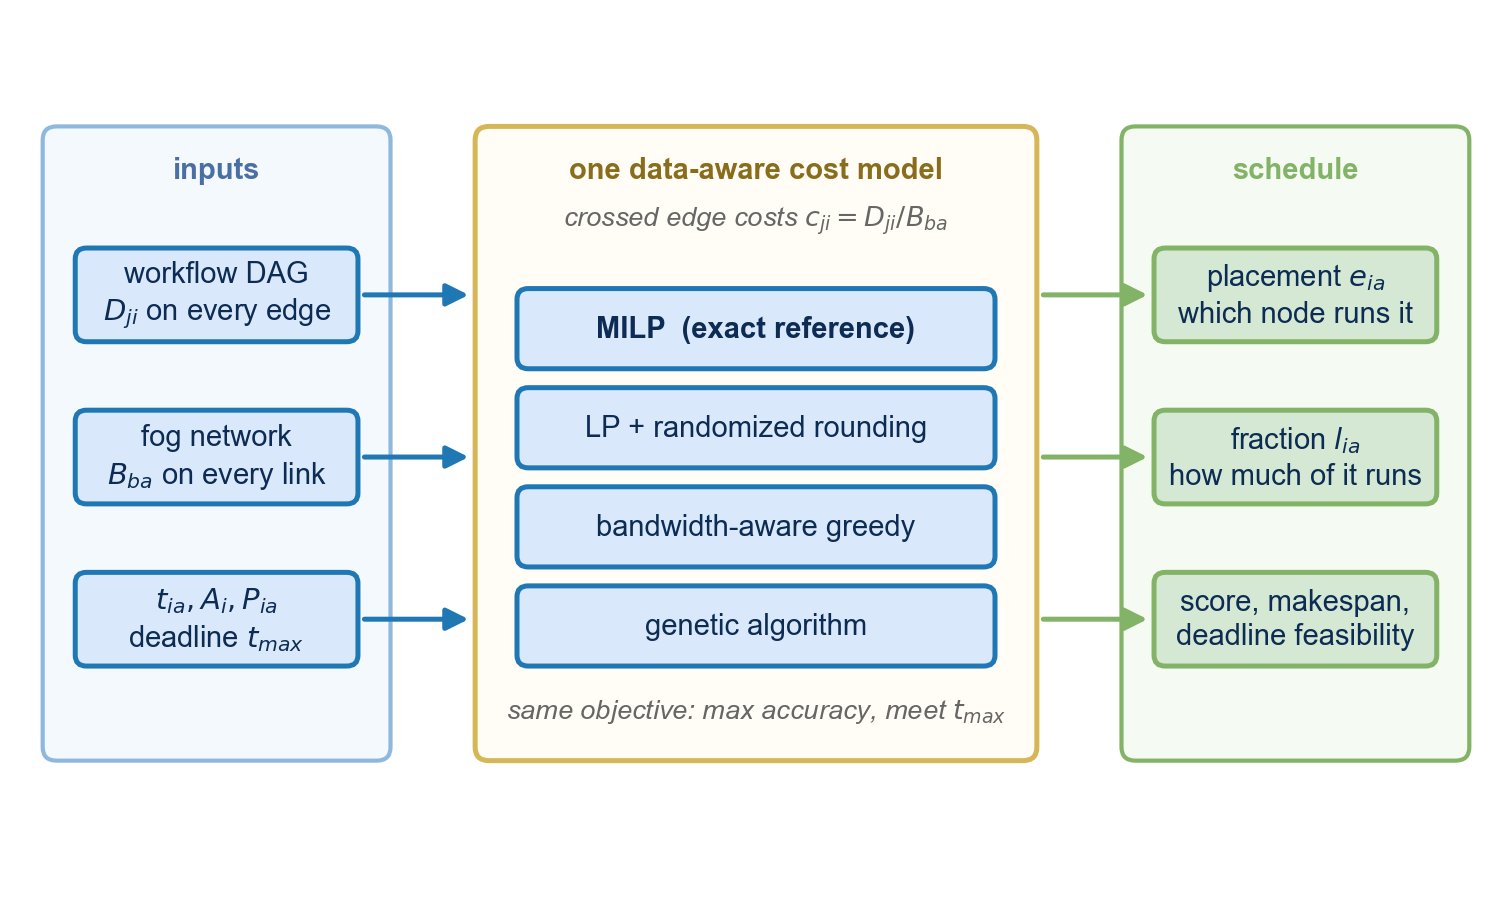
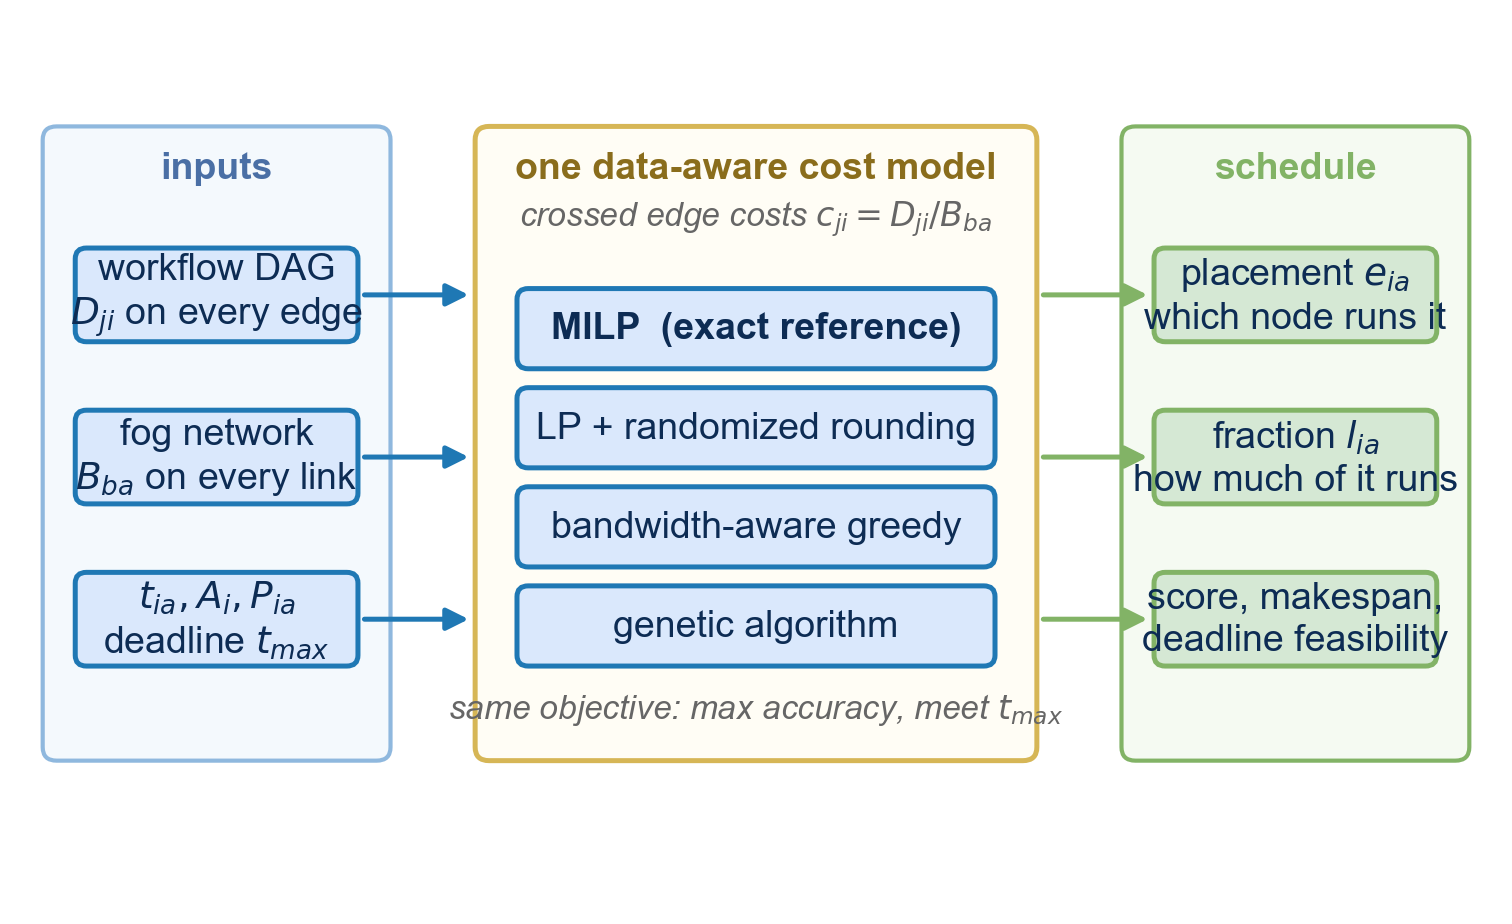
Enlarge diagram fonts and boxes for column-width readability
Bumps text to 9pt/8pt and resizes boxes in the three conceptual
figures so labels stay legible when rendered at single-column width;
fixes box-text overflow in the architecture and mapping diagrams.

diff --git a/code/make_figures.py b/code/make_figures.py
@@ -25,8 +25,8 @@ YELLOW_EDGE = "#d6b656"
 RED = "#c0392b"
 GREY = "#666666"
 
-FS = 7.0         # box text
-FS_SM = 6.5      # edge / side labels
+FS = 9.0         # box text
+FS_SM = 8.0      # edge / side labels
 
 
 def box(ax, x, y, w, h, text, fc=LT_BLUE, ec=BLUE, fs=FS, dashed=False,
@@ -61,12 +61,12 @@ def figure_architecture():
     ax.set_xlim(0, 16); ax.set_ylim(0, 11); ax.axis("off")
 
     # unreachable cloud (crossed out, dashed)
-    box(ax, 6.3, 9.9, 3.4, 0.85, "Cloud  (unreachable)",
+    box(ax, 5.7, 9.85, 4.6, 0.95, "Cloud  (unreachable)",
         fc="#f5f5f5", ec="#aaaaaa", fs=FS, dashed=True)
     cx = (8.0, 10.32)
-    ax.plot([cx[0] - 0.14, cx[0] + 0.14], [cx[1] - 0.12, cx[1] + 0.12],
+    ax.plot([cx[0] - 0.18, cx[0] + 0.18], [cx[1] - 0.15, cx[1] + 0.15],
             color=RED, lw=2.0)
-    ax.plot([cx[0] + 0.14, cx[0] - 0.14], [cx[1] - 0.12, cx[1] + 0.12],
+    ax.plot([cx[0] + 0.18, cx[0] - 0.18], [cx[1] - 0.15, cx[1] + 0.15],
             color=RED, lw=2.0)
 
     # federation boundary
@@ -80,7 +80,7 @@ def figure_architecture():
             fontweight="bold")
 
     # scheduler
-    sch = box(ax, 5.7, 7.15, 4.6, 0.95,
+    sch = box(ax, 5.3, 7.05, 5.4, 1.25,
               "Data-aware scheduler\nplaces tasks across the federation",
               fc=YELLOW, ec=YELLOW_EDGE, fs=FS, bold=True)
 
@@ -100,16 +100,16 @@ def figure_architecture():
             color="#4a6fa5", fontweight="bold")
 
     fgs = {}
-    fgs[0] = box(ax, 1.4, 4.55, 2.4, 0.9, "Fog 1\n(base station)", fs=FS)
-    fgs[1] = box(ax, 4.6, 4.55, 2.4, 0.9, "Fog 2\n(shelter gateway)", fs=FS)
-    fgs[2] = box(ax, 9.0, 4.55, 2.4, 0.9, "Fog 3\n(hospital edge)", fs=FS)
-    fgs[3] = box(ax, 12.2, 4.55, 2.4, 0.9, "Fog 4\n(mobile unit)", fs=FS)
+    fgs[0] = box(ax, 1.2, 4.45, 2.9, 1.15, "Fog 1\n(base station)", fs=FS)
+    fgs[1] = box(ax, 4.3, 4.45, 2.9, 1.15, "Fog 2\n(shelter gateway)", fs=FS)
+    fgs[2] = box(ax, 8.8, 4.45, 2.9, 1.15, "Fog 3\n(hospital edge)", fs=FS)
+    fgs[3] = box(ax, 12.0, 4.45, 2.9, 1.15, "Fog 4\n(mobile unit)", fs=FS)
 
     # intra-site links (solid grey) and one cross-site federation link (dashed)
     for a, b in [(0, 1), (2, 3)]:
-        arrow(ax, (fgs[a][0] + 1.2, fgs[a][1]), (fgs[b][0] - 1.2, fgs[b][1]),
+        arrow(ax, (fgs[a][0] + 1.45, fgs[a][1]), (fgs[b][0] - 1.45, fgs[b][1]),
               color=GREY, lw=0.9)
-    arrow(ax, (fgs[1][0] + 1.2, fgs[1][1]), (fgs[2][0] - 1.2, fgs[2][1]),
+    arrow(ax, (fgs[1][0] + 1.45, fgs[1][1]), (fgs[2][0] - 1.45, fgs[2][1]),
           dashed=True, color=GREEN_EDGE, lw=1.4)
     ax.text(8.0, 5.35, "inter-site link", fontsize=FS_SM, color=GREEN_EDGE,
             fontstyle="italic", ha="center")
@@ -122,14 +122,14 @@ def figure_architecture():
             fontstyle="italic", ha="center")
 
     # field sensors feeding site A
-    s1 = box(ax, 0.9, 1.15, 4.0, 0.95,
+    s1 = box(ax, 0.9, 1.05, 5.4, 1.2,
              "field sensors\nriver gauges, drones, cameras",
              fc=GREEN, ec=GREEN_EDGE, fs=FS)
     arrow(ax, (s1[0] + 0.5, s1[1] + 0.5), (fgs[0][0] - 0.4, fgs[0][1] - 0.48),
           color=GREEN_EDGE, label="raw data", label_dx=-0.9)
 
     # results flow to the operations centre
-    oc = box(ax, 10.6, 1.15, 5.0, 0.95,
+    oc = box(ax, 10.2, 1.05, 5.2, 1.0,
              "emergency operations centre",
              fc=GREEN, ec=GREEN_EDGE, fs=FS)
     arrow(ax, (fgs[3][0], fgs[3][1] - 0.48), (oc[0] + 0.6, oc[1] + 0.5),
@@ -166,12 +166,12 @@ def figure_dag():
             fontsize=FS_SM, color=GREY, fontstyle="italic")
 
     T = {}
-    T[1] = box(ax, 2.15, 7.65, 3.0, 0.8, "T1  ingest sensor data", fs=FS)
-    T[2] = box(ax, 0.85, 5.95, 3.0, 0.8, "T2  clean & filter", fs=FS)
-    T[3] = box(ax, 3.55, 5.95, 3.0, 0.8, "T3  fuse imagery", fs=FS)
-    T[4] = box(ax, 0.85, 4.25, 3.0, 0.8, "T4  forecast flood", fs=FS)
-    T[5] = box(ax, 3.55, 4.25, 3.0, 0.8, "T5  assess damage", fs=FS)
-    T[6] = box(ax, 2.15, 2.50, 3.0, 0.8, "T6  plan response", fs=FS,
+    T[1] = box(ax, 2.15, 7.65, 2.8, 0.8, "T1  ingest", fs=FS)
+    T[2] = box(ax, 0.75, 5.95, 2.8, 0.8, "T2  clean", fs=FS)
+    T[3] = box(ax, 3.75, 5.95, 2.8, 0.8, "T3  fuse", fs=FS)
+    T[4] = box(ax, 0.75, 4.25, 2.8, 0.8, "T4  forecast", fs=FS)
+    T[5] = box(ax, 3.75, 4.25, 2.8, 0.8, "T5  assess", fs=FS)
+    T[6] = box(ax, 2.15, 2.50, 2.8, 0.8, "T6  plan", fs=FS,
                fc=YELLOW, ec=YELLOW_EDGE, bold=True)
 
     edges = [(1, 2, "20"), (1, 3, "45"), (2, 4, "15"), (3, 4, "40"),
@@ -201,10 +201,10 @@ def figure_dag():
             fontsize=FS_SM, color=GREY, fontstyle="italic")
 
     F = {}
-    F[1] = box(ax, 9.65, 7.0, 2.1, 0.85, "$f_1$\ngateway", fs=FS)
-    F[2] = box(ax, 12.9, 7.0, 2.1, 0.85, "$f_2$\nshelter", fs=FS)
-    F[3] = box(ax, 9.65, 4.3, 2.1, 0.85, "$f_3$\nhospital", fs=FS)
-    F[4] = box(ax, 12.9, 4.3, 2.1, 0.85, "$f_4$\nmobile unit", fs=FS)
+    F[1] = box(ax, 9.55, 7.0, 2.2, 0.95, "$f_1$\ngateway", fs=FS)
+    F[2] = box(ax, 12.85, 7.0, 2.2, 0.95, "$f_2$\nshelter", fs=FS)
+    F[3] = box(ax, 9.55, 4.3, 2.2, 0.95, "$f_3$\nhospital", fs=FS)
+    F[4] = box(ax, 12.85, 4.3, 2.2, 0.95, "$f_4$\nmobile", fs=FS)
 
     links = [(1, 2, "90", 0.0), (1, 3, "10", 0.0), (2, 4, "60", 0.0),
              (3, 4, "45", 0.0), (2, 3, "30", -0.14)]
@@ -219,20 +219,20 @@ def figure_dag():
     # ---------- mapping arrows: task -> node ----------
     mapping = [(1, 1), (2, 1), (3, 1), (4, 3), (5, 2), (6, 4)]
     for t, f in mapping:
-        arrow(ax, (T[t][0] + 1.5, T[t][1] - 0.10),
-              (F[f][0] - 1.1, F[f][1] + 0.10),
+        arrow(ax, (T[t][0] + 1.4, T[t][1] - 0.10),
+              (F[f][0] - 1.15, F[f][1] + 0.10),
               dashed=True, color=BLUE, lw=0.9, rad=0.10)
     ax.text(8.0, 8.35, "placement $e_{ia}$", ha="center", fontsize=FS_SM,
             color=BLUE, fontstyle="italic")
 
     # ---------- the payoff callout ----------
-    call = FancyBboxPatch((3.4, 0.12), 9.2, 0.82,
+    call = FancyBboxPatch((2.9, 0.12), 10.2, 0.82,
                           boxstyle="round,pad=0.02,rounding_size=0.12",
                           linewidth=1.3, edgecolor=RED, facecolor="#fdf0ee")
     ax.add_patch(call)
     ax.text(8.0, 0.53,
-            "T3 sits on $f_1$, T4 on $f_3$: the $D_{34}{=}40$ input crosses "
-            "$B_{13}{=}10$, so delay $= 40/10 = 4$",
+            "T3 on $f_1$, T4 on $f_3$: input $D_{34}{=}40$ crosses "
+            "$B_{13}{=}10$, delay $=4$",
             ha="center", va="center", fontsize=FS, color=RED,
             fontweight="bold")
 
